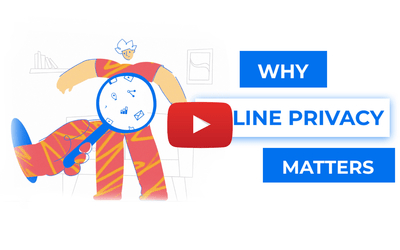
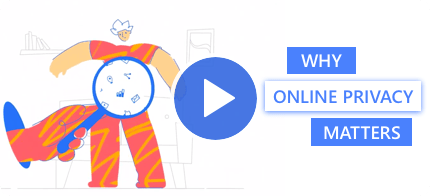
privacy/creo/LVPT-501/added fit to article img and new img for video

diff --git a/vtr-ui/src/app/components/pages/page-privacy/main-layout/sidebar/video-widget/video-widget.component.html b/vtr-ui/src/app/components/pages/page-privacy/main-layout/sidebar/video-widget/video-widget.component.html
@@ -11,9 +11,6 @@
 				 [srcset]="'/assets/images/privacy-tab/video-widget/video-widget@2x.png 2x'"
 				 alt="Why Online Privacy Matters video">
 		</div>
-		<div class="video-widget__text-block">
-			<h3 class="video-widget__title">Why Online Privacy Matters</h3>
-		</div>
 	</div>
 </div>
 <vtr-common-popup [popUpId]="videoPopupId" size="big">

diff --git a/vtr-ui/src/app/components/pages/page-privacy/pages/articles/article-preview/article-preview.component.scss b/vtr-ui/src/app/components/pages/page-privacy/pages/articles/article-preview/article-preview.component.scss
@@ -11,6 +11,8 @@
 
 	&__image {
 		width: 100%;
+		height: 26rem;
+		object-fit: cover;
 		border-radius: 1rem 1rem 0 0;
 	}
 
